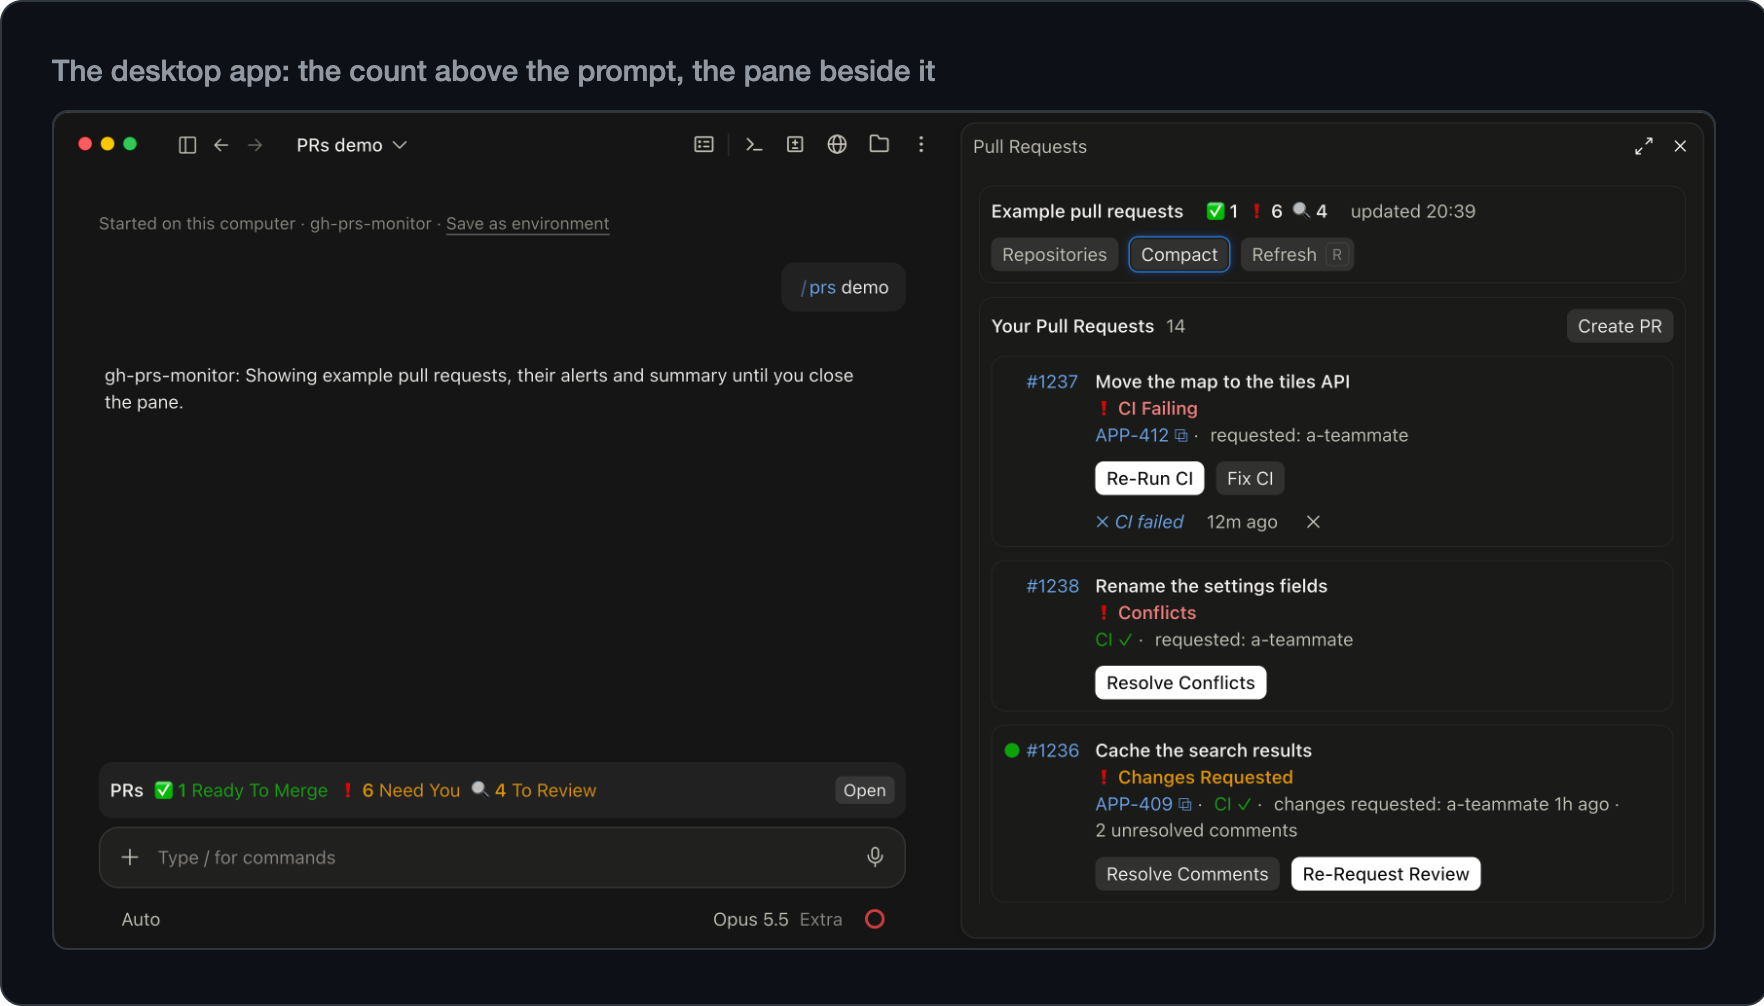
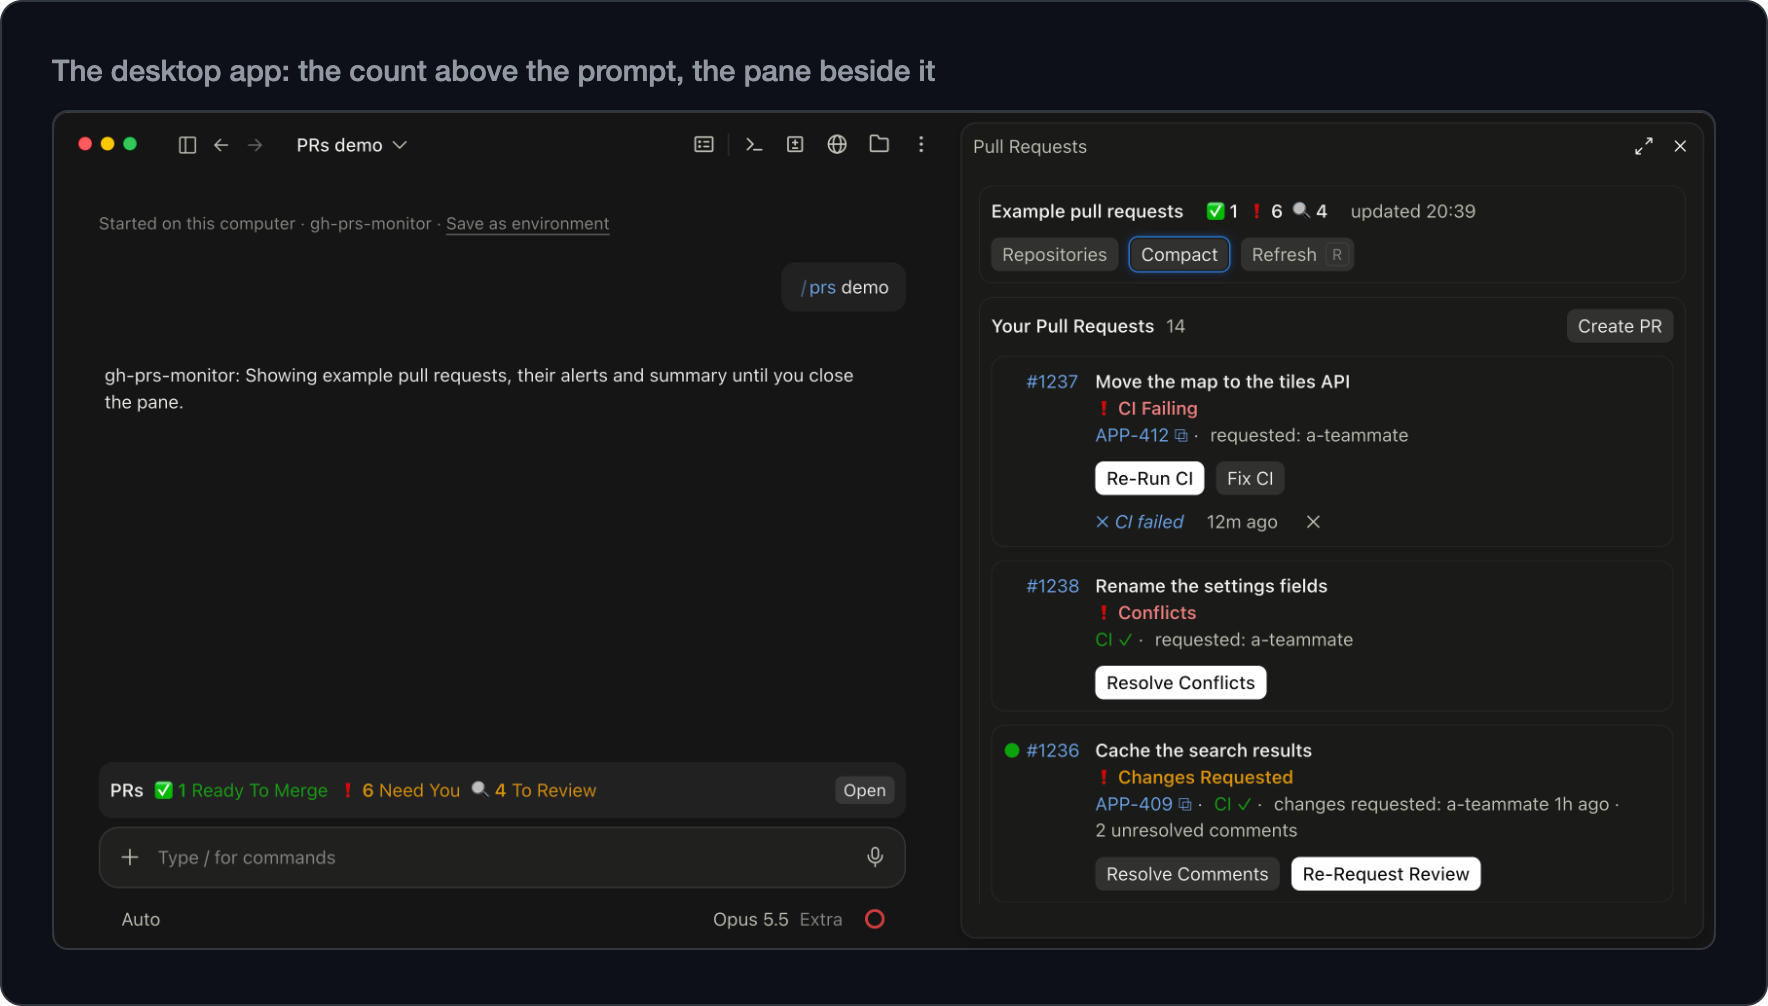
The README's pictures keep the card's right edge
card.py sized its render window 2px per panel short of the card, so every picture lost the card's right frame line
and its rounded right corners. It renders with room to spare now, and clean.py trims the space beside the card as it
trims the space under it (a PNG row's filter looks only left and up, so the bytes kept stay valid).

diff --git a/maintenance/screenshots/clean.py b/maintenance/screenshots/clean.py
@@ -1,9 +1,9 @@
 # Author: David Matura
 #
-# A rendered card (card.py) made ready for the plugin's assets, its pixels kept: the transparent rows a render leaves
-# under the card trimmed, the text and ICC-profile chunks dropped (as in the other screenshots), and the image data
-# compressed again until no run of its bytes reads as a command the directory's scan flags. 1.0.1's compact.png spelled
-# PowerShell's `iex` and `irm`, its icon and hero `iwr` and `npx`.
+# A rendered card (card.py) made ready for the plugin's assets, its pixels kept: the transparent space a render
+# leaves under and beside the card trimmed, the text and ICC-profile chunks dropped (as in the other screenshots), and
+# the image data compressed again until no run of its bytes reads as a command the directory's scan flags. 1.0.1's
+# compact.png spelled PowerShell's `iex` and `irm`, its icon and hero `iwr` and `npx`.
 # Usage: python3 maintenance/screenshots/clean.py <render.png> <gh-prs-monitor/assets/screenshots/name.png>
 import re
 import struct
@@ -59,10 +59,12 @@ rows = unfiltered(raw, width, height, 4)
 drawn = [y for y in range(height) if any(rows[y][3::4])]
 if not drawn:
     sys.exit("The render is empty: every pixel is transparent.")
-# A row's filter refers only to the rows above it, so the rows kept keep their bytes.
+# A pixel's filter refers only to the pixels above it and left of it, so the rows and columns kept keep their bytes.
 kept = drawn[-1] + 1
-image = raw[: kept * (width * 4 + 1)]
-header = chunk(b"IHDR", struct.pack(">IIBBBBB", width, kept, 8, 6, 0, 0, 0))
+right = max(len(rows[y][3::4].rstrip(b"\0")) for y in drawn)
+stride = width * 4 + 1
+image = b"".join(raw[y * stride : y * stride + 1 + right * 4] for y in range(kept))
+header = chunk(b"IHDR", struct.pack(">IIBBBBB", right, kept, 8, 6, 0, 0, 0))
 extras = b"".join(chunk(kind, body) for kind, body in parts if kind in KEPT)
 
 for level in range(9, 0, -1):
@@ -73,6 +75,6 @@ for level in range(9, 0, -1):
             png = data[:8] + header + extras + idat + chunk(b"IEND", b"")
             if not FLAGGED.search(png):
                 open(target, "wb").write(png)
-                print(f"{target}: {width}x{kept}, {len(png):,} bytes, no flagged run")
+                print(f"{target}: {right}x{kept}, {len(png):,} bytes, no flagged run")
                 sys.exit(0)
 sys.exit("Every encoding tried has a flagged run: render again a pixel wider or taller.")

diff --git a/maintenance/screenshots/card.py b/maintenance/screenshots/card.py
@@ -82,8 +82,9 @@ def render(panels: list[Panel], out: str, scale: float) -> None:
         with open(page, "w") as file:
             file.write(f'<!doctype html><html><head><meta charset="utf-8"><style>{STYLE}</style></head><body>'
                        f'<div class="card">{cells}</div></body></html>')
-        width = sum(panel.width for panel in panels) + 25 * (len(panels) - 1) + 52
-        # The card's padding and a caption take under 100px; clean.py trims what is left under the card.
+        # Room to spare around the card, which takes under 100px more than its panels: clean.py trims what is left
+        # beside and under it.
+        width = sum(panel.width for panel in panels) + 25 * (len(panels) - 1) + 200
         height = max(shown_height(panel) for panel in panels) + 200
         subprocess.run([CHROME, "--headless=new", "--hide-scrollbars", f"--force-device-scale-factor={scale}",
                         "--default-background-color=00000000", f"--window-size={width},{height}",

diff --git a/maintenance/screenshots/README.md b/maintenance/screenshots/README.md
@@ -68,7 +68,7 @@ A panel's `width` and `height` are in CSS pixels; with a `height`, the panel sho
 rendered at 2×, or lower where an image has fewer pixels than that, so no screenshot is scaled up; a GIF's frames
 must come out the same size. It needs macOS with Google Chrome, and ffmpeg for a GIF.
 
-`clean.py` trims the rows under the card, drops text and ICC-profile chunks, and compresses the image again until no
+`clean.py` trims the space beside and under the card, drops text and ICC-profile chunks, and compresses the image again until no
 run of its bytes reads as a command the directory's scan flags (as `iex` and `irm` did in 1.0.1's `compact.png`). A
 GIF is encoded again with fewer colours until none of its bytes do. Keep each file under 5 MiB, the directory's limit
 for a file in the plugin folder.
